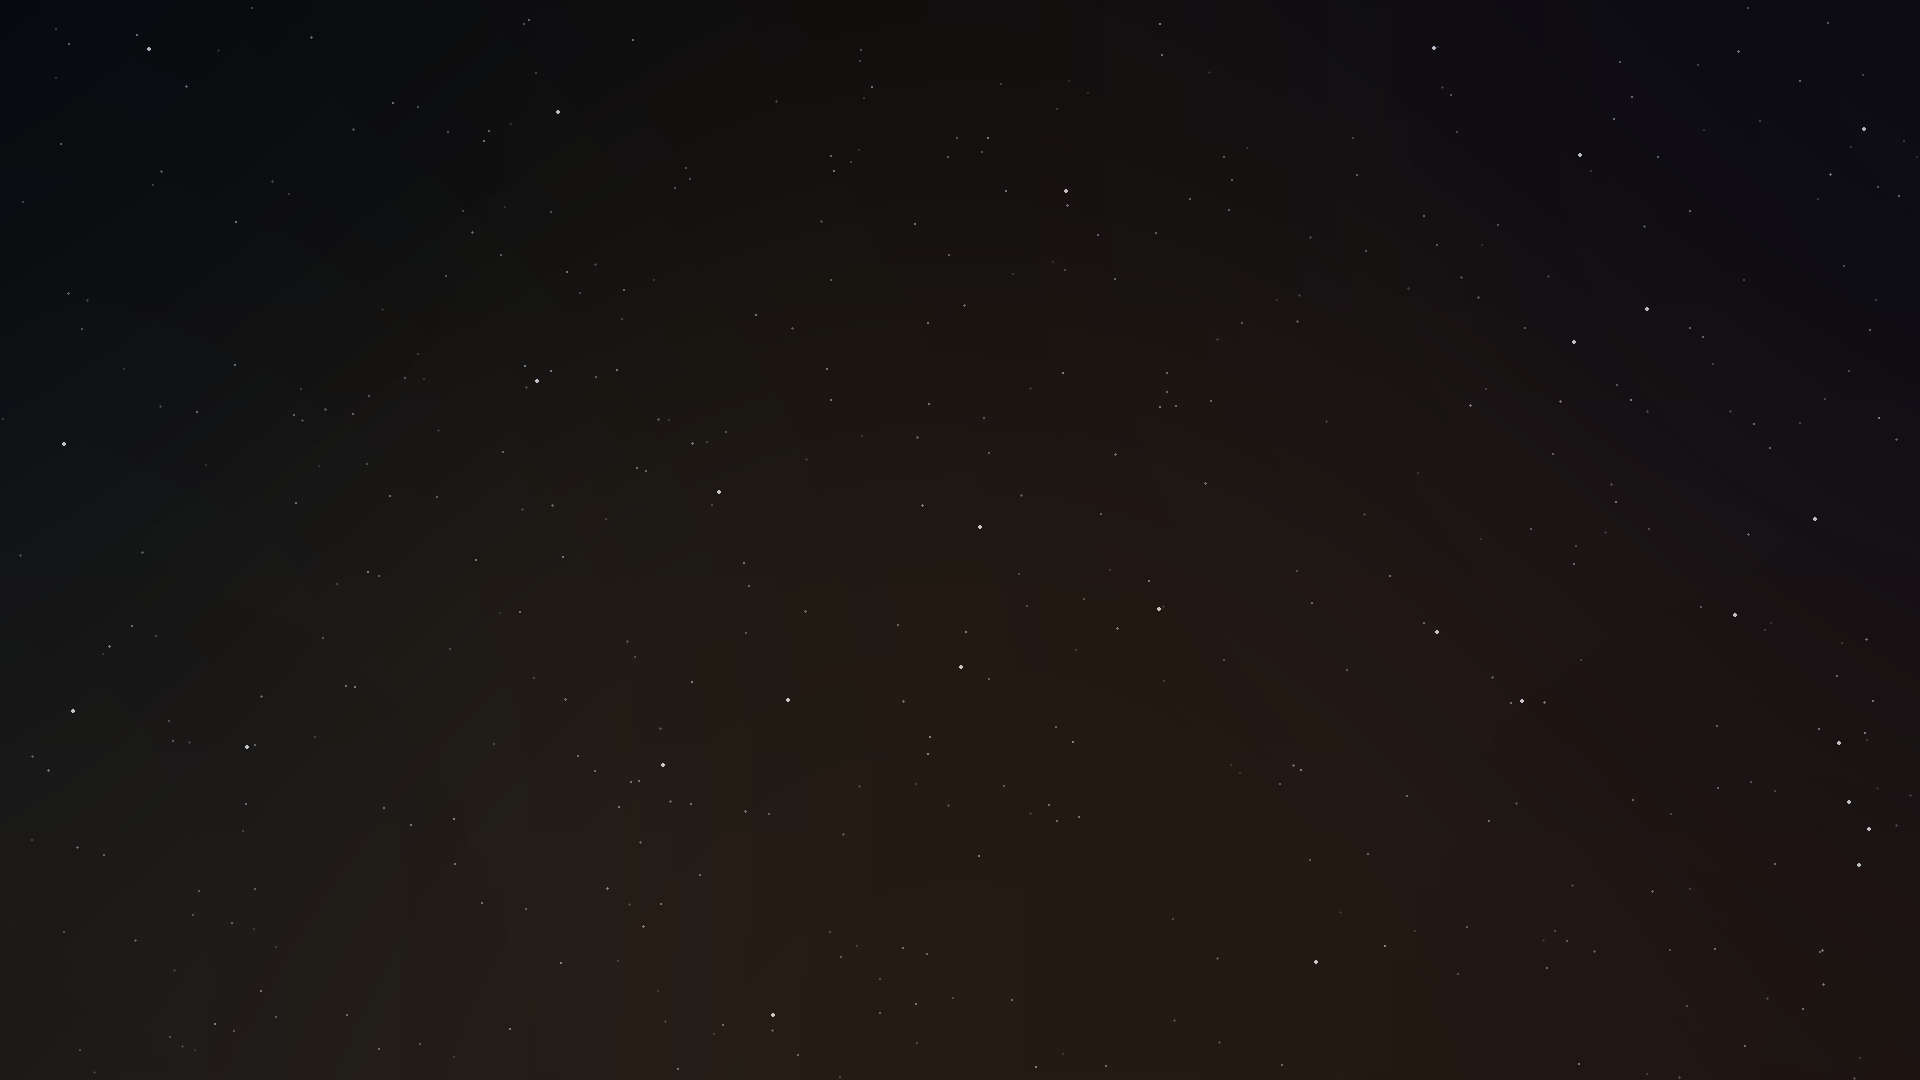
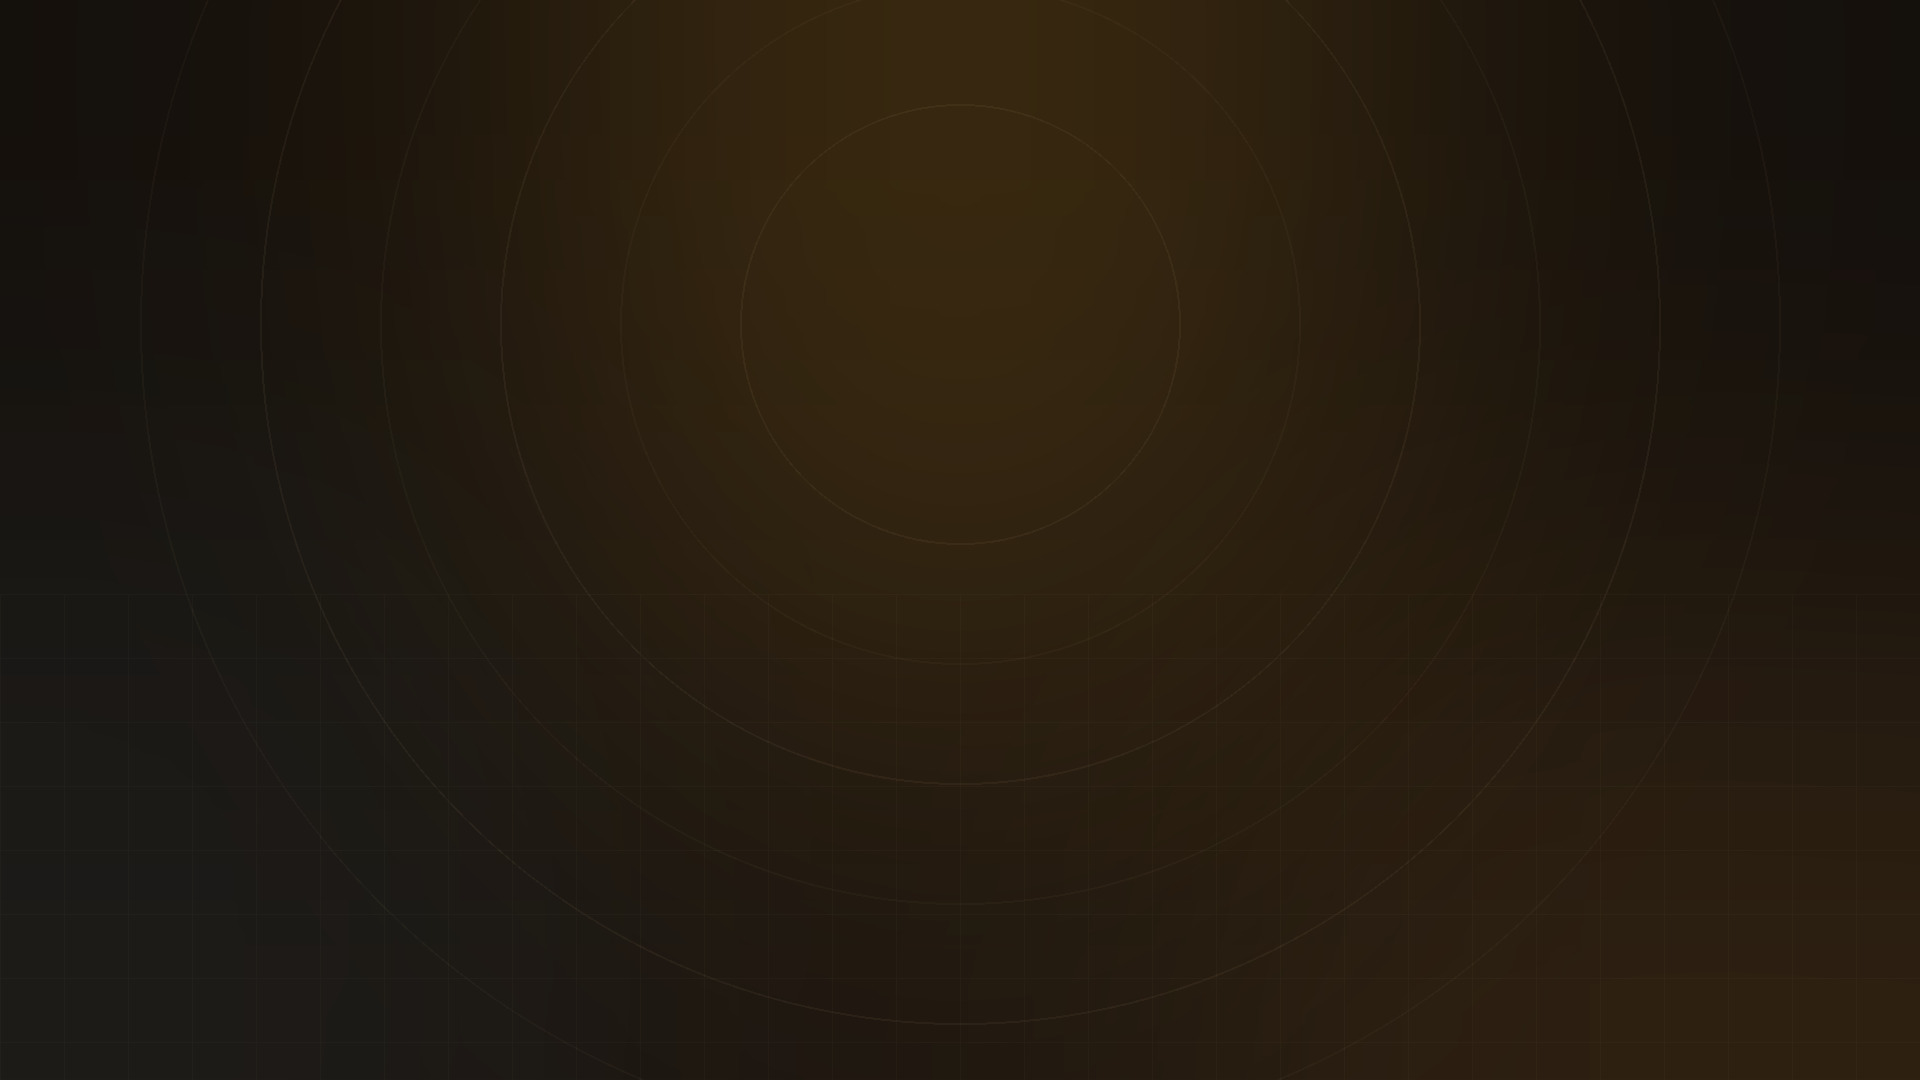
update

Changed region(s): [[0.25, 0.0, 0.6875, 0.3972]]

diff --git a/launcher.py b/launcher.py
@@ -374,6 +374,11 @@ CONFIG = {
     # Ссылка на ваш Discord-сервер (кнопка в лаунчере). Оставьте "", чтобы
     # кнопку не показывать.
     "DISCORD_URL": "https://discord.gg/rN22JGV9C",
+    # Discord Rich Presence: статус «Играет в Industrial Horizon» в профиле игрока.
+    # Пусто = выключено. Чтобы включить: создать приложение на
+    # https://discord.com/developers, назвать "Industrial Horizon", в Rich Presence
+    # → Art Assets загрузить логотип под именем "logo", и вписать сюда Application ID.
+    "DISCORD_APP_ID": "1529101947381219348",
     "TELEGRAM_URL": "https://t.me/+mq769D_rHc04ZmYy",
 
     # Веб-карта мира (BlueMap крутится прямо на сервере, отдельный порт).
@@ -392,7 +397,7 @@ CONFIG = {
     # рядом останется вторая копия, которую придётся сносить руками.
     "WINDOW_TITLE": "Industrial Horizon",
 
-    "LAUNCHER_VERSION": "1.64.4",
+    "LAUNCHER_VERSION": "1.64.6",
 
     # ------------------- АВТОПРОВЕРКА ОБНОВЛЕНИЙ ЛАУНЧЕРА -------------------
     # Если заполнить это (после того как заведёте GitHub-репозиторий с
@@ -6067,6 +6072,11 @@ LOW_END_OPTIONS = {
     "clouds": "false",         # то же самое, старое название ключа
     "entityShadows": "false",
     "biomeBlendRadius": "0",
+    # «Облегчённые текстуры» для слабых видеокарт: мипмапы (сглаживание текстур
+    # вдали) заметно грузят видеопамять и GPU у старых карт вроде AMD HD 7000.
+    # 0 = без мипмапов. Плюс упрощаем модели блоков (меньше геометрии).
+    "mipmapLevels": "0",
+    "entityDistanceScaling": "0.5",  # мобы/сущности рисуются ближе — меньше нагрузка
 }
 
 # Настройки, которые лаунчер выставляет ВСЕГДА — и на слабом ПК, и на мощном.
@@ -6826,6 +6836,7 @@ class LauncherApp:
         self.refresh_server_status()
         self._check_launcher_update_async()
         self._serve_single_instance()
+        self._rp_update("В лаунчере", "В меню")  # Discord Rich Presence (если настроен)
 
     # ------------------------------------------------------------------
     # Окно: показать, вернуть на экран, второй запуск, корректный выход
@@ -6922,9 +6933,38 @@ class LauncherApp:
                 server.close()
             except OSError:
                 pass
+        # Если обновление скачано — тихо ставим его именно СЕЙЧАС, при закрытии.
+        # Так лаунчер не перезапускается во время работы: апдейт применяется,
+        # когда человек и так уходит, и окно заново не открывается.
+        pending = getattr(self, "_pending_update", None)
+        if pending:
+            self._launch_update_installer(pending)
+        self._rp_close()
         try:
             self.root.destroy()
         except tk.TclError:
+            pass
+
+    def _launch_update_installer(self, new_exe) -> None:
+        """Тихо запускает скачанный установщик обновления и НЕ открывает лаунчер
+        заново (installer.iss [Run] со skipifsilent). Скрипт ждёт, пока лаунчер
+        закроется, ставит обновление молча и убирает за собой. Вызывается из
+        on_close — чтобы обновление не перезапускало лаунчер посреди работы."""
+        bat = Path(tempfile.gettempdir()) / ("ih_update_%d.bat" % os.getpid())
+        script = (
+            "@echo off\r\n"
+            "ping -n 3 127.0.0.1 >nul\r\n"
+            "%1 /VERYSILENT /NORESTART /SUPPRESSMSGBOXES /NOCANCEL\r\n"
+            "ping -n 12 127.0.0.1 >nul\r\n"
+            "del %1 >nul 2>&1\r\n"
+            'del "%~f0" >nul 2>&1\r\n'
+        )
+        try:
+            bat.write_text(script, encoding="ascii")
+            create_no_window = 0x08000000  # без чёрного окна консоли
+            subprocess.Popen(["cmd", "/c", str(bat), str(new_exe)],
+                             creationflags=create_no_window, close_fds=True)
+        except Exception:  # noqa: BLE001
             pass
 
     # ------------------------------------------------------------------
@@ -9193,8 +9233,56 @@ class LauncherApp:
 
         threading.Thread(target=worker, daemon=True).start()
 
+    def _rp_update(self, details: str, state: str, reset_time: bool = False) -> None:
+        """Discord Rich Presence — «Играет в Industrial Horizon» в профиле игрока.
+        Всё в фоне и под замком: pypresence не потокобезопасен, а connect может
+        подвиснуть при странно запущенном Discord — поэтому UI это не трогает.
+        Нет APP_ID или Discord не запущен — тихо ничего не делаем."""
+        app_id = CONFIG.get("DISCORD_APP_ID")
+        if not app_id:
+            return
+        if not hasattr(self, "_rp_lock"):
+            self._rp_lock = threading.Lock()
+            self._rpc = None
+            self._rpc_start = int(time.time())
+
+        def worker():
+            with self._rp_lock:
+                try:
+                    if self._rpc is None:
+                        from pypresence import Presence
+                        self._rpc = Presence(str(app_id))
+                        self._rpc.connect()
+                        self._rpc_start = int(time.time())
+                    if reset_time:
+                        self._rpc_start = int(time.time())
+                    self._rpc.update(
+                        details=details, state=state,
+                        large_image="logo", large_text="Industrial Horizon",
+                        start=self._rpc_start)
+                except Exception:  # noqa: BLE001
+                    try:
+                        if self._rpc:
+                            self._rpc.close()
+                    except Exception:  # noqa: BLE001
+                        pass
+                    self._rpc = None
+
+        threading.Thread(target=worker, daemon=True).start()
+
+    def _rp_close(self) -> None:
+        rpc = getattr(self, "_rpc", None)
+        if rpc is not None:
+            try:
+                rpc.clear()
+                rpc.close()
+            except Exception:  # noqa: BLE001
+                pass
+            self._rpc = None
+
     def _on_game_started(self) -> None:
         self.set_status("Игра запущена! Лаунчер откроется снова, когда вы закроете Minecraft.")
+        self._rp_update("В игре", "Industrial Horizon", reset_time=True)
         # Сворачиваем в панель задач, а НЕ прячем полностью (withdraw):
         # раньше окно исчезало отовсюду и вернуть его было нечем — со стороны
         # это и выглядело как "процесс есть, окна нет".
@@ -9222,6 +9310,7 @@ class LauncherApp:
     def _on_game_ended(self, game_started: bool) -> None:
         self.play_button.set_enabled(True)
         self.show_window()
+        self._rp_update("В лаунчере", "В меню", reset_time=True)
         if game_started:
             if getattr(self, "_last_game_crashed", False):
                 self.set_status("Игра закрылась с ошибкой — могу собрать логи.")
@@ -9969,12 +10058,15 @@ class LauncherApp:
                         pass
                     raise RuntimeError("скачанный файл повреждён")
 
-                # Пробного запуска тут больше нет. Он был костылём против
-                # "Failed to load Python DLL": грел антивирус, чтобы тот успел
-                # проверить свежий .exe до подмены. Костыль не работал (ошибка
-                # возвращалась), а теперь и не нужен: обновление ставит
-                # установщик, лаунчер лежит папкой и ничего не распаковывает.
-                self.root.after(0, self._apply_downloaded_update, cur_exe, new_exe)
+                # Обновление НЕ применяем сразу — иначе лаунчер закрылся бы и
+                # перезапустился посреди работы. Запоминаем скачанный установщик
+                # и поставим его ТИХО, когда игрок сам закроет лаунчер (см.
+                # on_close). Тогда никакого перезапуска: апдейт встаёт при выходе
+                # и заново окно не открывает (installer.iss, skipifsilent).
+                self._pending_update = new_exe
+                self.root.after(0, lambda: self.update_banner_var.set(
+                    "✅  Обновление %s готово — установится при закрытии лаунчера"
+                    % (info.get("version", "") or "")))
             except Exception:
                 self._updating = False
                 # НЕ уводим на GitHub и НЕ гасим exe_url: при следующем клике